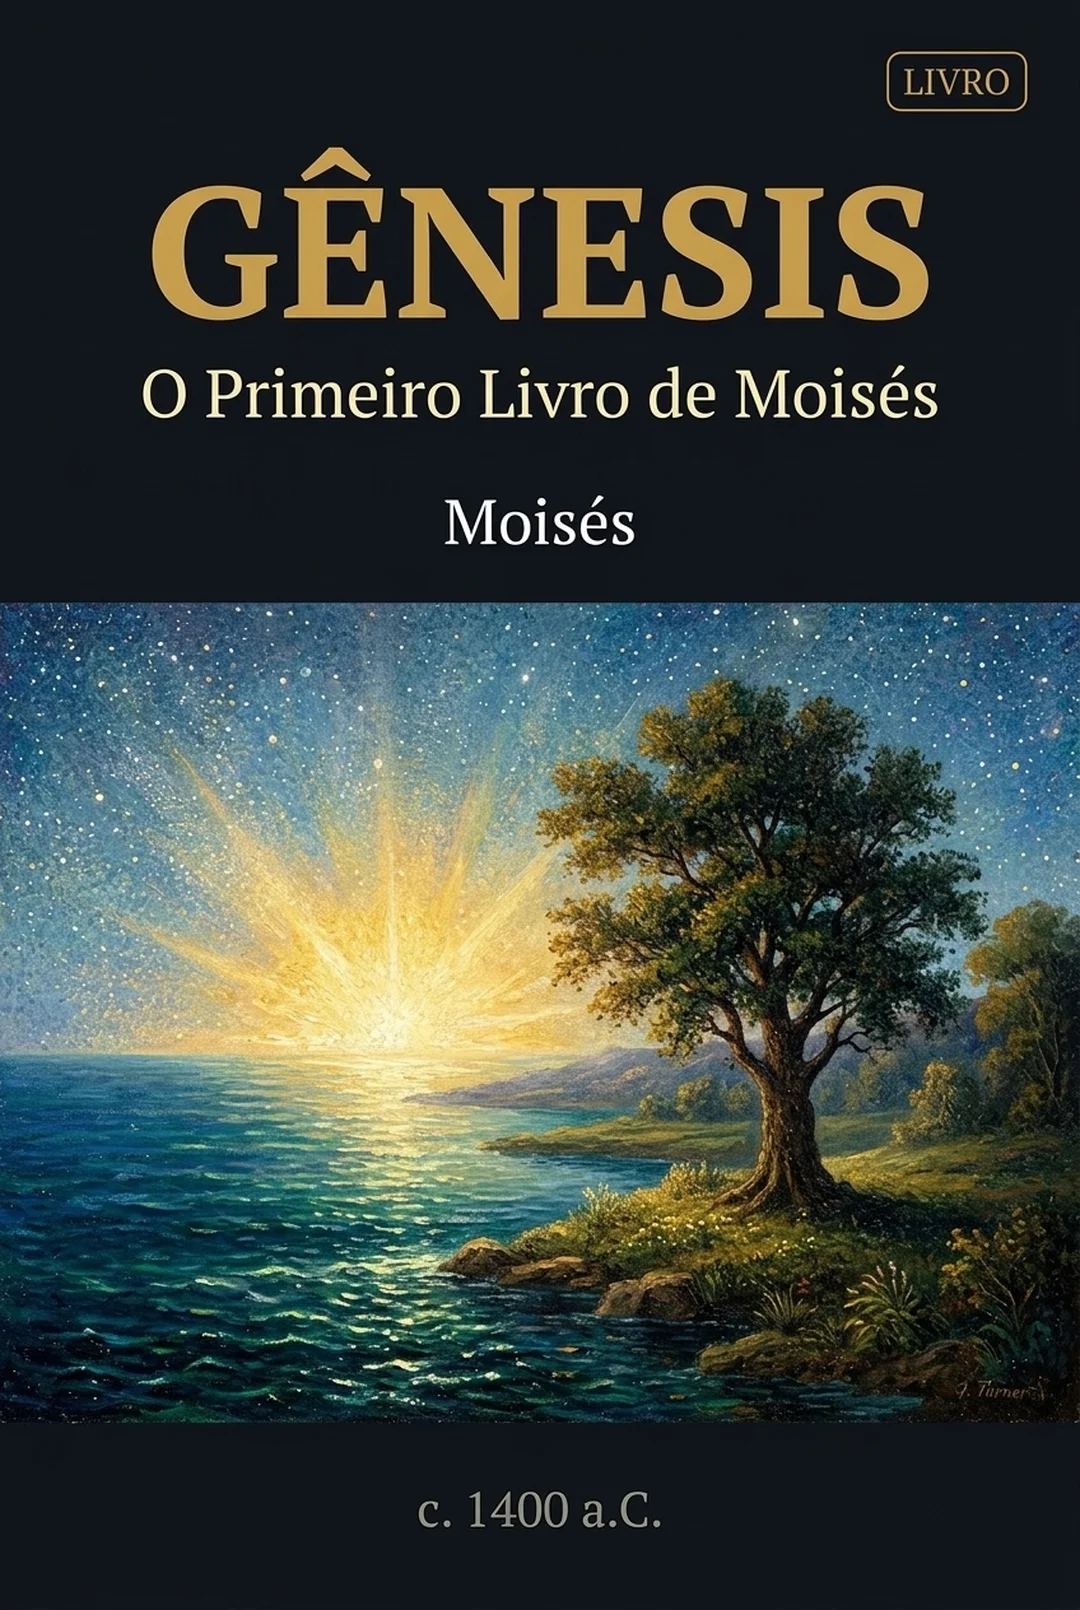
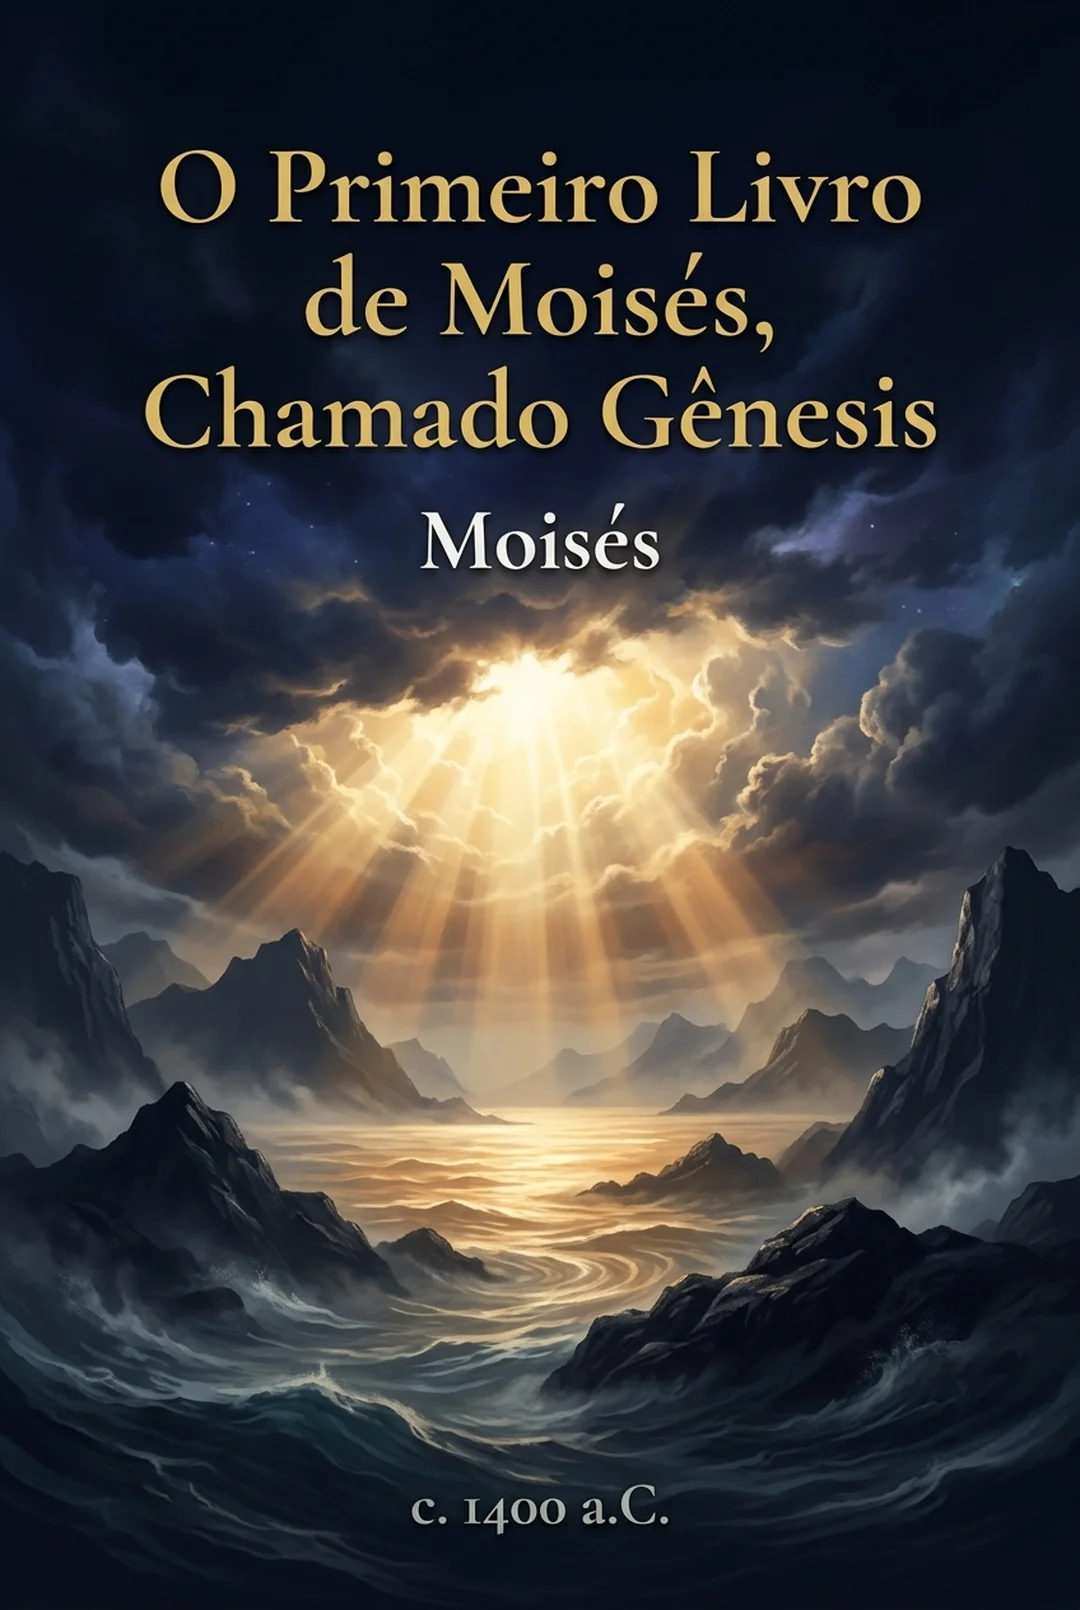
Finalização de padronização das capas dos livros.

diff --git a/.agents/editorial/design-system-capas-artigos.md b/.agents/editorial/design-system-capas-artigos.md
@@ -3,7 +3,7 @@
 Este documento define a especificação canônica, o grid tipográfico, a paleta institucional por periódico e as regras geométricas para todas as capas de **Artigos Científicos e Acadêmicos** (`content/articles/`) do ecossistema OpenSciMD / LeiaME.
 
 > [!NOTE]
-> **Preservação dos Livros e E-books**: As obras clássicas e e-books (`content/books/`) seguem a tradição visual histórica autônoma estabelecida em [`.agents/editorial/covers.md`](covers.md). Este *Design System* aplica-se estritamente aos artigos de periódicos.
+> **Preservação dos Livros e E-books**: As obras clássicas e e-books (`content/books/`) seguem a tradição visual histórica autônoma estabelecida em [`.agents/editorial/design-system-capas-livros.md`](design-system-capas-livros.md). Este *Design System* aplica-se estritamente aos artigos de periódicos.
 
 ---
 

diff --git a/ROADMAP_COVERS.md b/ROADMAP_COVERS.md
@@ -21,7 +21,7 @@ Acompanhamento do processo de refatoração e criação manual das capas padroni
 | 11 | `primeiro-livro-de-moises-chamado-genesis` | Moisés | c. 1400 a.C. | ✅ Concluído |
 | 12 | `segundo-livro-de-moises-chamado-exodo` | Moisés | c. 1400 a.C. | ✅ Concluído |
 | 13 | `comentario-sobre-a-religiao-crista` | Petrus Ramus | 1576 | ✅ Concluído |
-| 14 | `petrus-ramus-e-a-reforma-educacional-do-seculo-xvi` | Frank Pierrepont Graves | 1912 | ⏳ Em avaliação |
+| 14 | `petrus-ramus-e-a-reforma-educacional-do-seculo-xvi` | Frank Pierrepont Graves | 1912 | ✅ Concluído |
 | 15 | `atlantida` | Platão | c. 360 a.C. | ✅ Concluído |
 | 16 | `fedon` | Platão | c. 385 a.C. | ✅ Concluído |
 | 17 | `parmenides` | Platão | c. 370 a.C. | ✅ Concluído |
